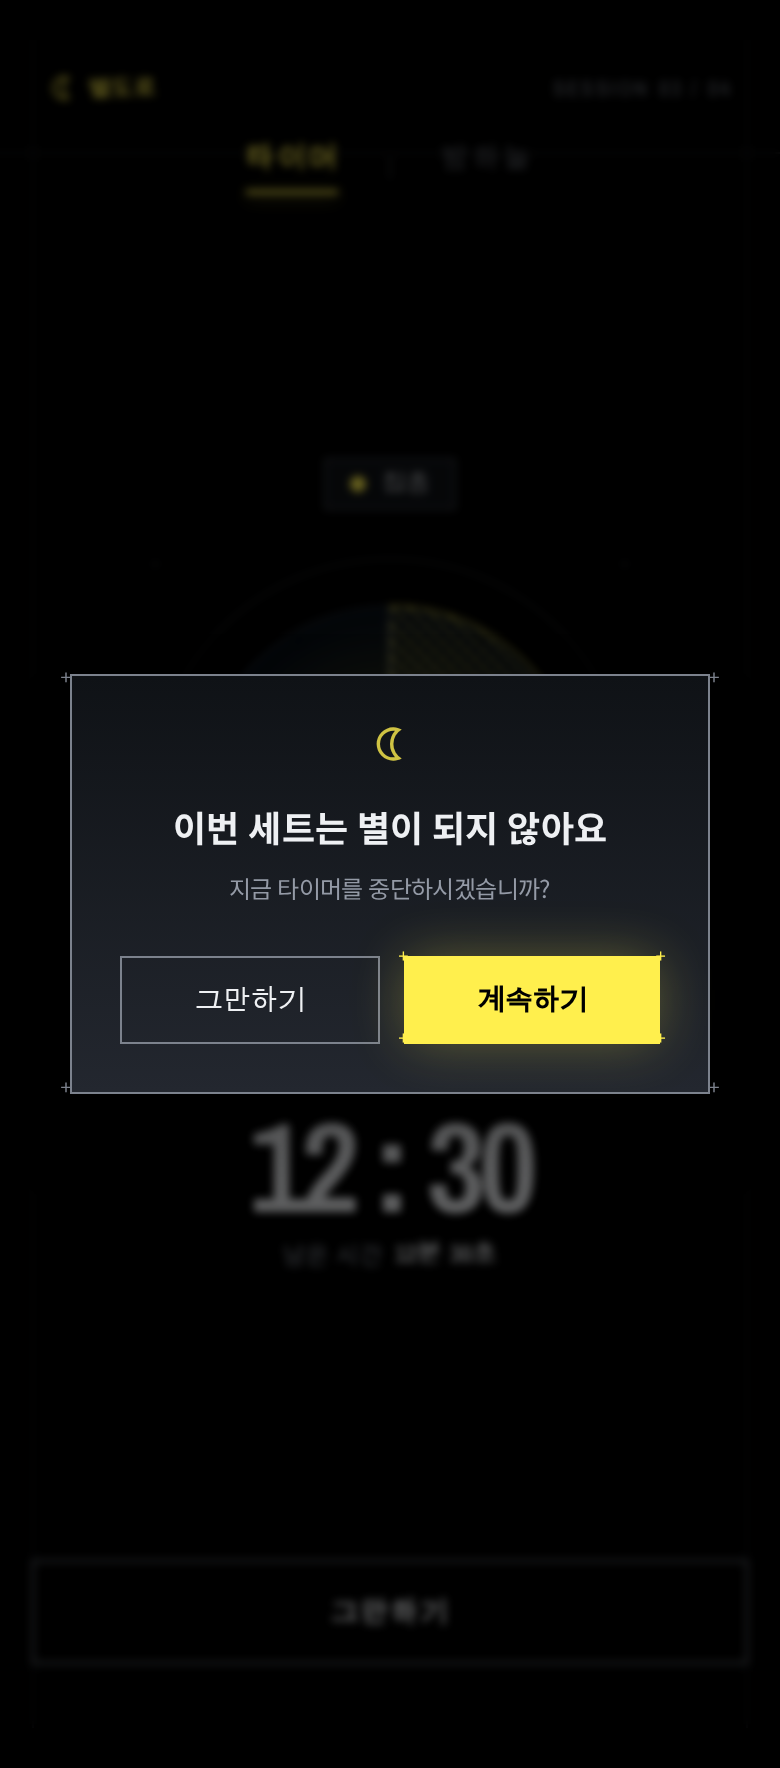
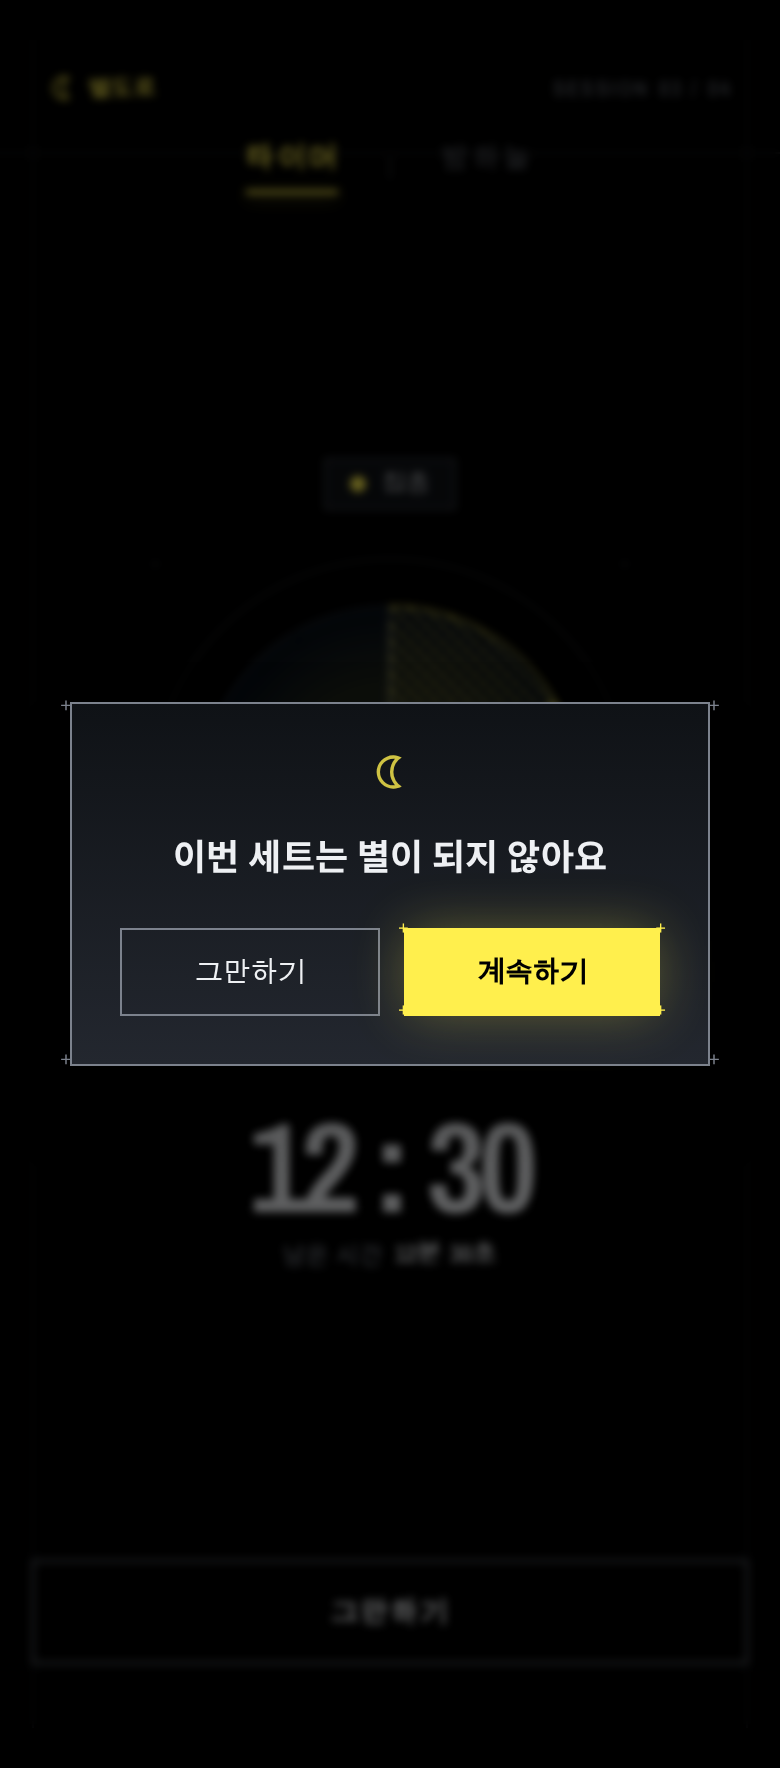
Keep star sizes on the 1-set card and trim the stop dialog text in Stitch designs

Changed region(s): [[0.0923, 0.4044, 0.9231, 0.6222], [0.8923, 0.3733, 0.9231, 0.4044]]

diff --git a/idea/screens/3A_카드_1세트/code.html b/idea/screens/3A_카드_1세트/code.html
@@ -143,7 +143,7 @@
       min-height: max(884px, 100dvh);
     }
   </style>
-  </head>
+</head>
 <body class="bg-black flex justify-center items-center m-0 p-0 w-screen h-screen">
 <!-- Mobile Viewport: 390px x 844px strict container -->
 <main class="w-[390px] h-[844px] max-h-[844px] bg-black text-on-surface flex flex-col justify-between px-4 pt-4 pb-8 box-border relative overflow-hidden">
@@ -153,10 +153,6 @@
 <span class="material-symbols-outlined text-[24px]">arrow_back</span>
 </button>
 <!-- Subtle Framing Technical Reticle Top-Right -->
-<div class="flex items-center gap-1.5 opacity-40 px-2">
-<span class="w-1.5 h-1.5 bg-outline"></span>
-<span class="font-num text-[11px] tracking-widest text-outline">PREVIEW//01</span>
-</div>
 </header>
 <!-- Center Content Canvas: 9:16 Card Preview Anchor -->
 <section class="flex flex-col items-center justify-center flex-1 w-full my-auto z-10">
@@ -172,17 +168,8 @@
 <div class="absolute w-[130px] h-[130px] rounded-full border border-[#FFEF4D]/15 pointer-events-none"></div>
 <div class="absolute w-[76px] h-[76px] rounded-full border border-[#FFEF4D]/25 pointer-events-none"></div>
 <!-- Solitary Concentrated Moonlit Star (The 1 Completed Set) -->
-<div class="relative z-10 flex items-center justify-center">
-<!-- Ambient Star Backing Core -->
-<div class="absolute w-4 h-4 bg-[#FFEF4D] rounded-full blur-[3px] opacity-70"></div>
-<!-- Crisp 4-Point Luminescent Geometric Star SVG -->
-<svg class="w-10 h-10 text-primary-fixed glow-star relative z-10" fill="none" viewbox="0 0 40 40" xmlns="http://www.w3.org/2000/svg">
-<path d="M20 0C20 11.0457 28.9543 20 40 20C28.9543 20 20 28.9543 20 40C20 28.9543 11.0457 20 0 20C11.0457 20 20 11.0457 20 0Z" fill="#FFEF4D"></path>
-</svg>
-</div>
+<div class="relative z-10 flex items-center justify-center pointer-events-none"><span class="w-1 h-1 rounded-full bg-[#FFFFFF] shadow-[0_0_6px_2px_rgba(255,239,77,0.65)]"></span></div>
 <!-- Technical Corner Hairline Markings inside Card Top Area -->
-<span class="absolute top-3 left-3 text-[9px] font-num text-[#7C828D]/50 tracking-wider">01/01</span>
-<span class="absolute top-3 right-3 text-[9px] font-num text-[#7C828D]/50 tracking-wider">25M</span>
 </div>
 <!-- Hairline Thin Divider Line -->
 <div class="w-full h-[1px] bg-[#7C828D]/25"></div>

diff --git a/idea/screens/1D_그만하기_확인창/code.html b/idea/screens/1D_그만하기_확인창/code.html
@@ -133,7 +133,7 @@
       min-height: max(884px, 100dvh);
     }
   </style>
-  </head>
+</head>
 <body class="bg-black text-[#EEF0F3] antialiased select-none overflow-hidden m-0 p-0 flex justify-center items-center h-screen w-screen">
 <!-- Mobile Viewport Canvas: 390x844px -->
 <main class="relative w-[390px] h-[844px] max-h-[844px] bg-black overflow-hidden flex flex-col justify-between">
@@ -270,13 +270,10 @@
 <span class="material-symbols-outlined text-[20px]">nightlight</span>
 </div>
 <!-- Heading -->
-<h2 class="text-nocturne-bright font-headline-md text-center text-lg font-bold tracking-tight leading-snug">
+<h2 class="text-nocturne-bright font-headline-md text-center text-lg font-bold tracking-tight leading-snug mb-6">
             이번 세트는 별이 되지 않아요
           </h2>
 <!-- Subtext -->
-<p class="text-nocturne-muted font-body-md text-center text-xs mt-2 mb-6 tracking-tight leading-relaxed">
-            지금 타이머를 중단하시겠습니까?
-          </p>
 <!-- Action Buttons (Row: flex gap-3) -->
 <div class="flex items-center gap-3 w-full">
 <!-- Left Button: Secondary "그만하기" -->

diff --git a/idea/screens/README.md b/idea/screens/README.md
@@ -4,6 +4,7 @@
 
 - 폴더마다 화면 그림 `screen.png`(2배 크기, 780×1768 — 2A 만 직접 내보낸 그림이라 390×844), 화면 코드 `code.html`, 스티치 화면 번호 `stitch.json` 이 있습니다.
 - 원형 타이머 색: 집중 25분(300°) = 꽉 찬 노랑, 휴식 5분(60°) = 남색 바탕에 노란 빗금.
+- 카드의 별은 화면2 와 같은 크기 규칙을 지킵니다(1세트 = 아주 작은 점 1개). 별이 적을 때 허전하지 않게 하는 것은 달빛 고리 같은 배경 장식으로 합니다.
 - 모든 화면은 같은 디자인 규칙 [DESIGN.md](DESIGN.md)(Nocturne Focus — 검정 바탕, 남색 판, 달빛 노랑 #FFEF4D)를 따릅니다.
 - 번호는 [와이어프레임](../Wireframe.png)의 프레임 번호와 같습니다.
 
